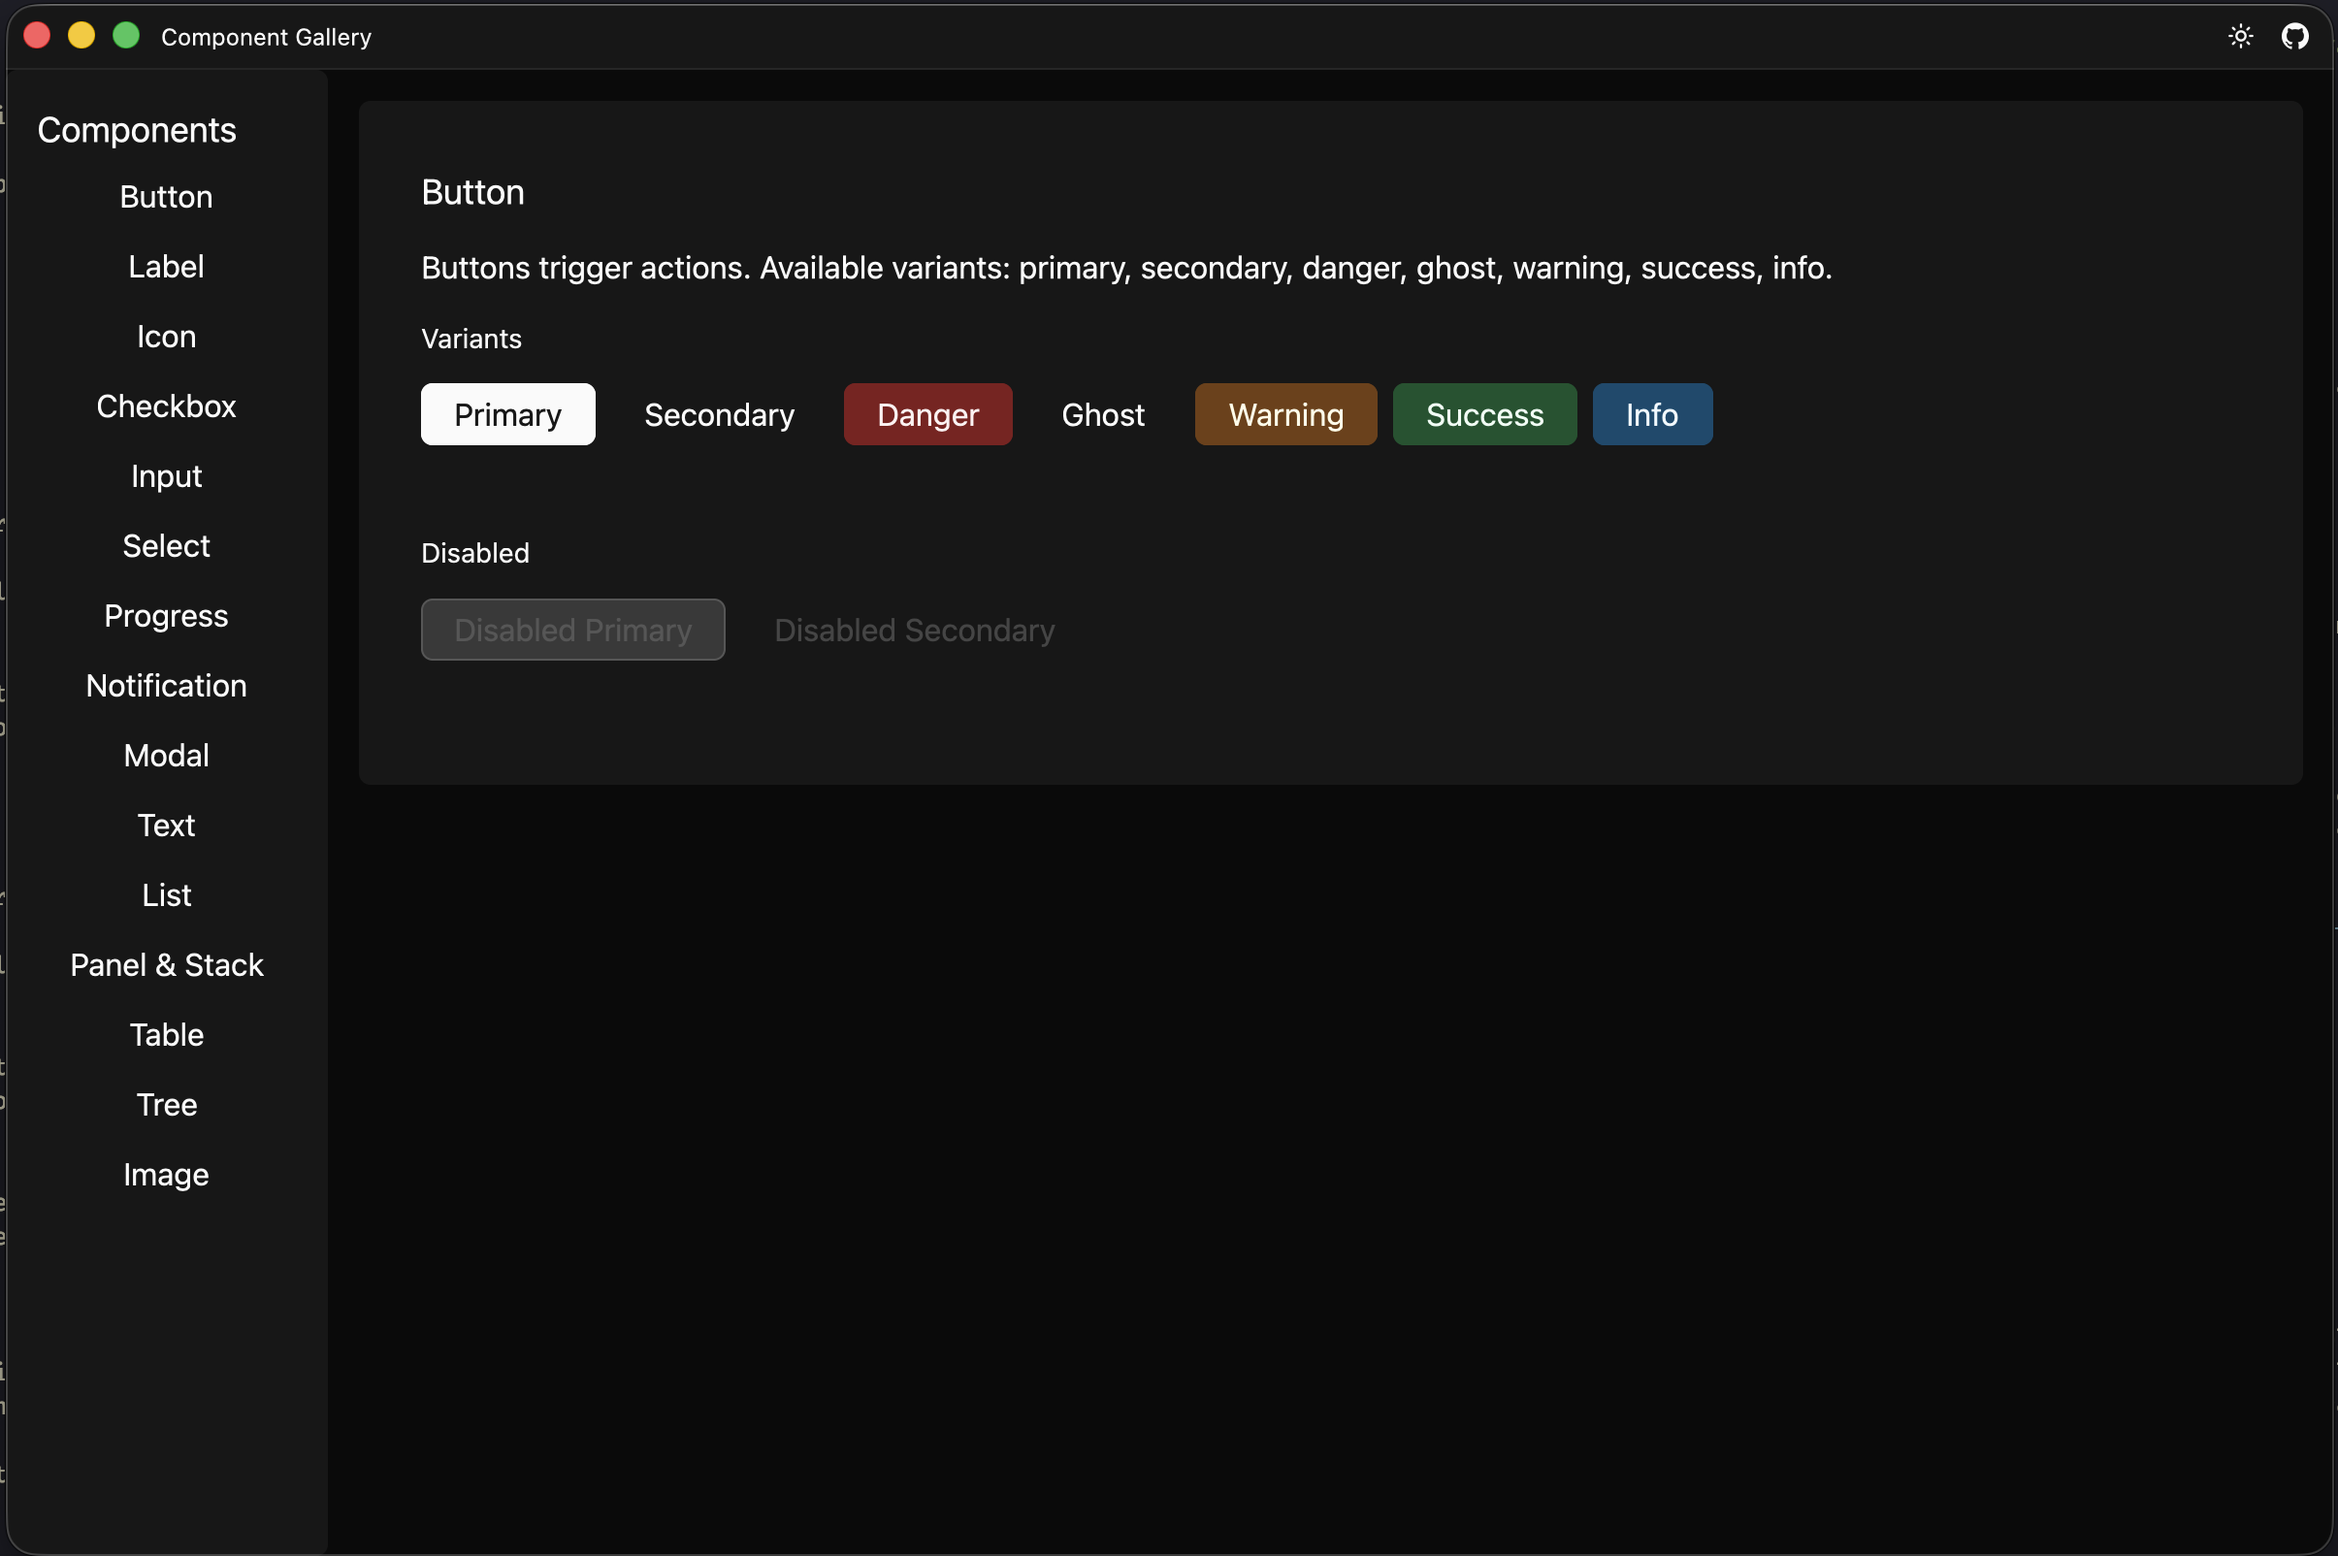
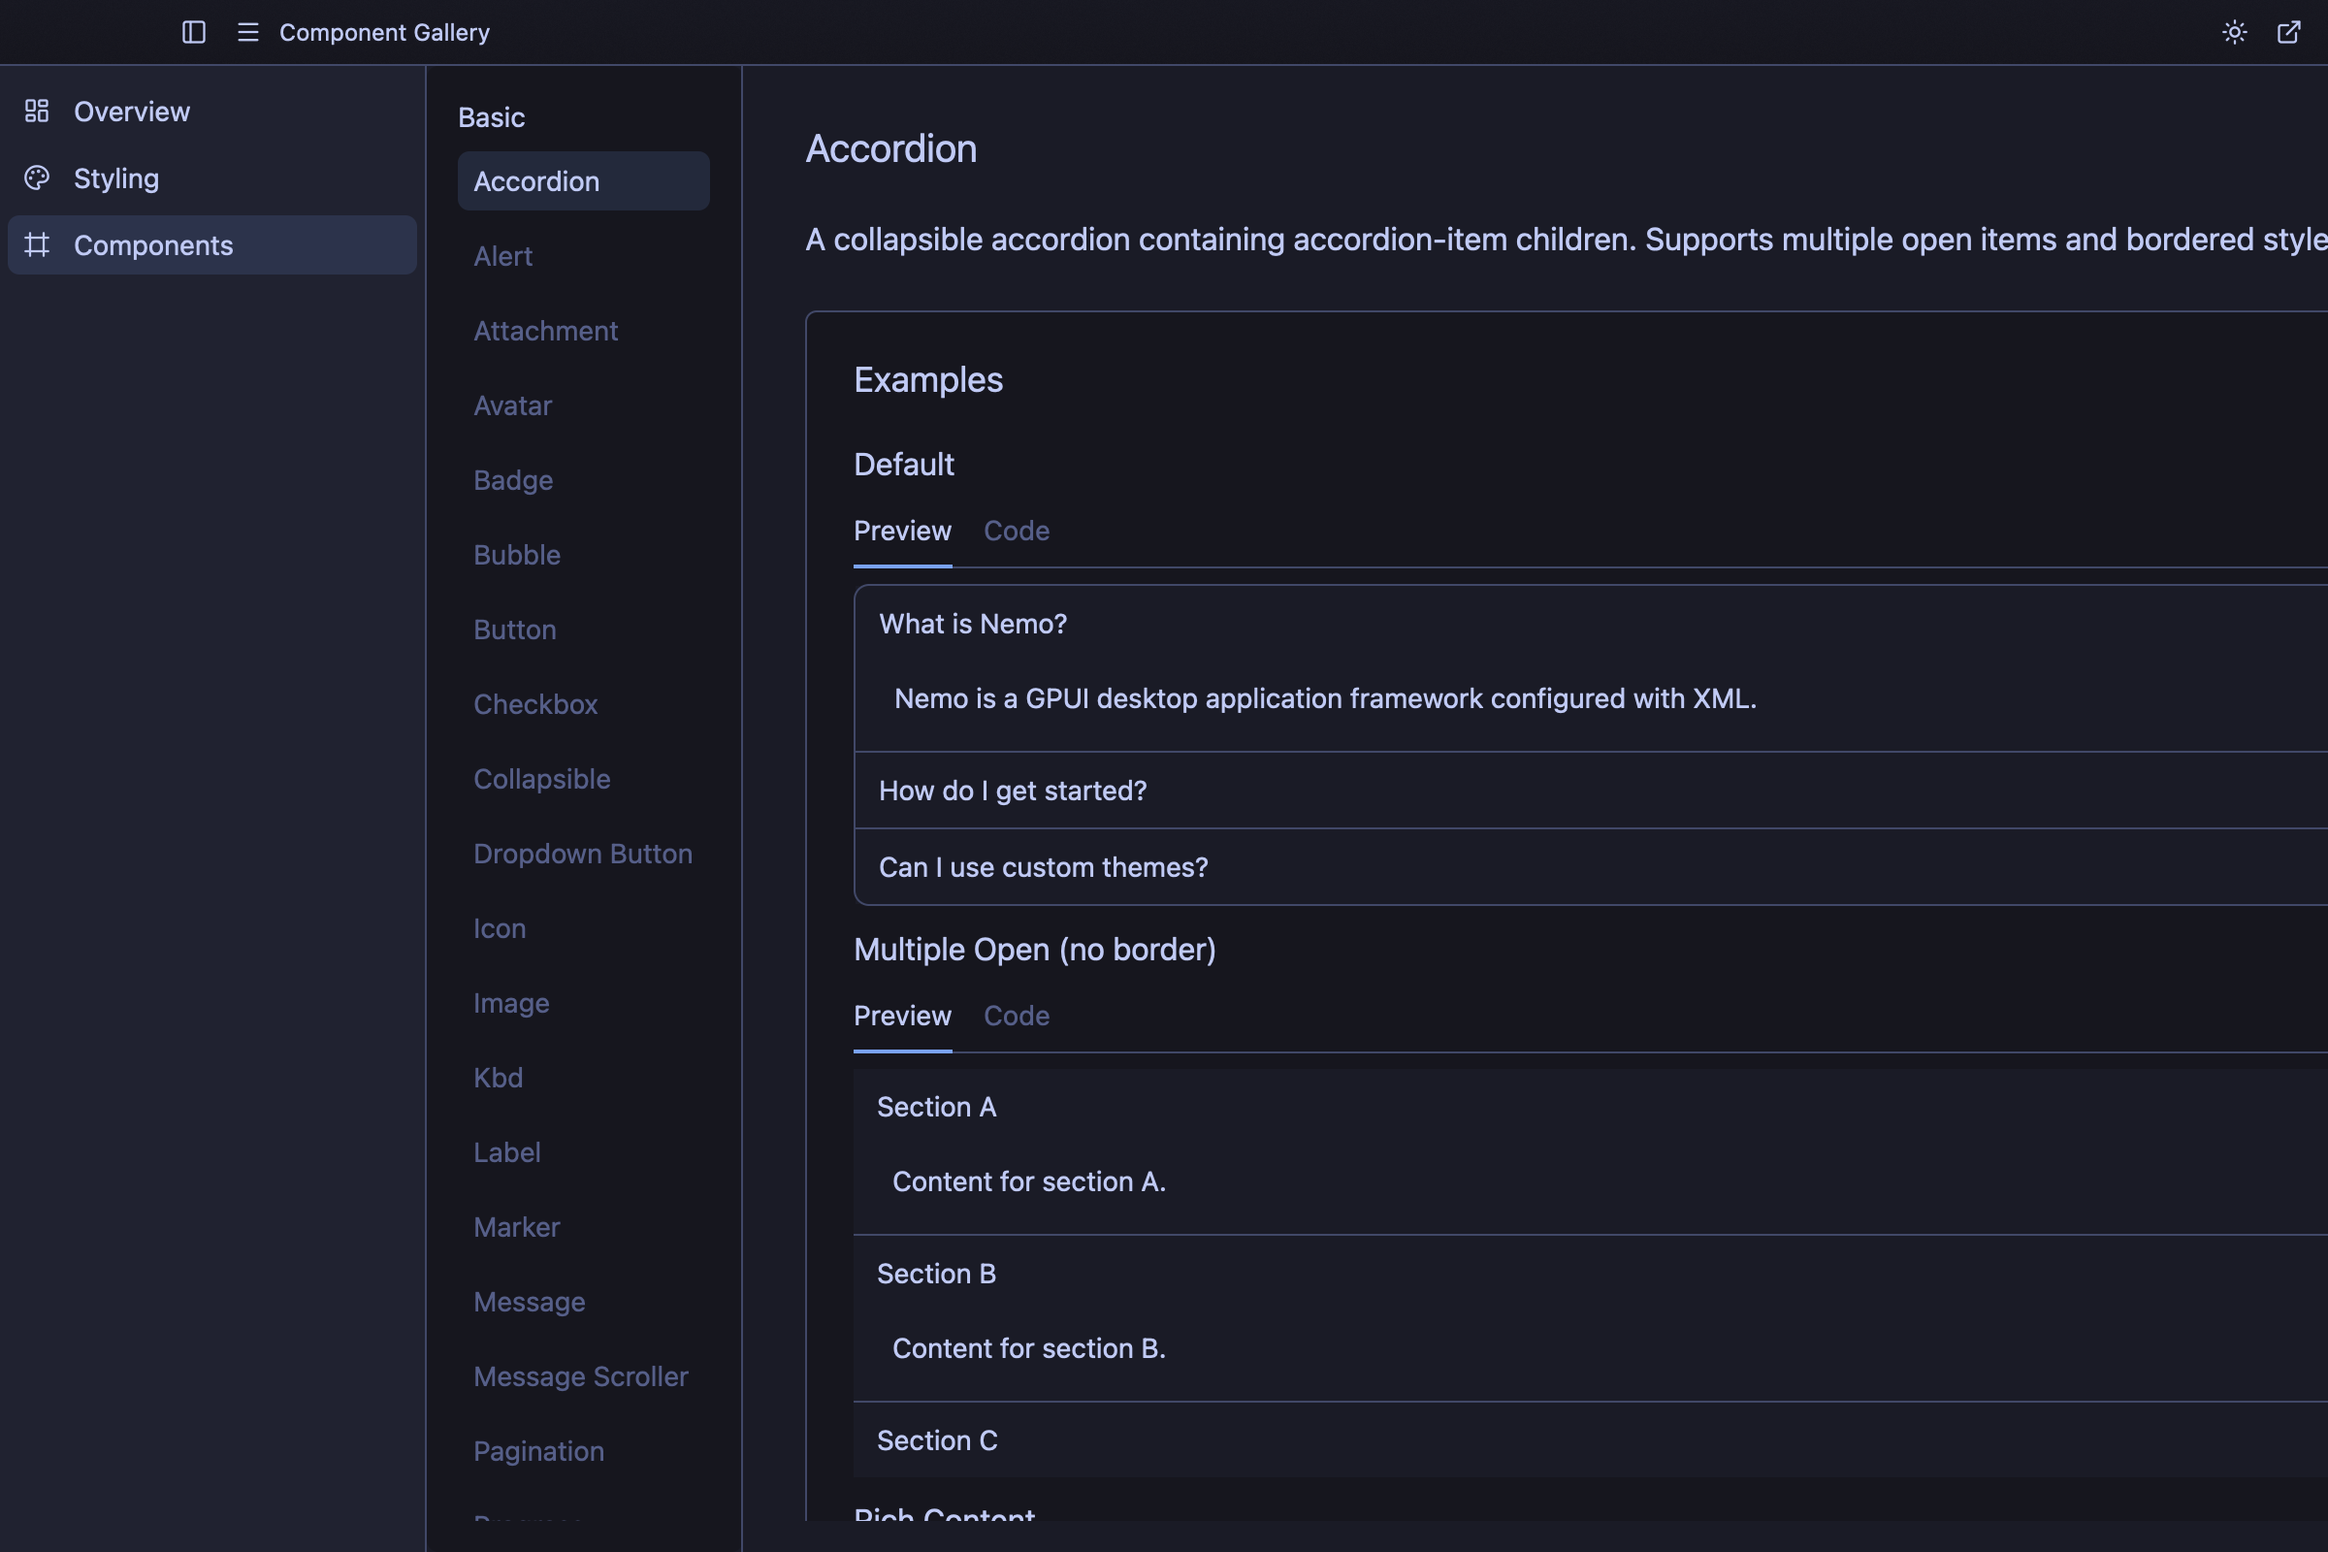
docs: refresh READMEs and gallery screenshot
Root README: list all 14 examples (app-shell, basic, calculator, complete,
components, custom-theme, data-binding, data-streaming, dev-dashboard,
pid-control, router, sfc, svg, task-list) and give the examples block its
own heading; fix Configuations typo.

Components README: replace the stale component list and outdated
placeholder inventory with the current gallery catalogue (Basic/Form/
Layout/Advanced/Navigation) and the 11 remaining gpui-kit placeholders;
describe the app-shell structure the app actually uses.

Regenerate screenshot.png against the current gallery (sidebar + Accordion
page).

diff --git a/examples/components/README.md b/examples/components/README.md
@@ -1,6 +1,8 @@
 # Component Gallery Example
 
-An interactive showcase of every built-in Nemo component, organized with sidebar navigation.
+An interactive showcase of every built-in Nemo component, hosted in an app-shell
+with an Overview / Styling / Components section menu and a sidebar-driven
+component router.
 
 ![Screenshot](./screenshot.png)
 
@@ -12,32 +14,47 @@ cargo run -- --app-config examples/components/app.nemo
 
 ## What It Shows
 
+- App-shell layout: `<app-shell>` with `<sidenav-item>` page switching, a
+  `<header-bar>` with theme toggle, and a component `<page>` containing the
+  gallery router
 - Sidebar navigation via the chrome-free page router: a `<router>` of `<route>`s
   with a `<nav-link>` per component page — no navigation handler required
-- Every built-in component type:
-    - **Button** -- all variants (`primary`, `secondary`, `danger`, `ghost`, `warning`, `success`, `info`) and disabled state
-    - **Label** -- all sizes (`xs`, `sm`, `md`, `lg`, `xl`)
-    - **Icon** -- named icons at different sizes
-    - **Checkbox** -- checked, unchecked, and disabled states
-    - **Input** -- text fields with placeholders and disabled state
-    - **Select** -- dropdown with options
-    - **Progress** -- progress bars at various values
-    - **Notification** -- `info`, `success`, `warning`, `error` kinds
-    - **Modal** -- toggled open/closed via a button handler
-    - **Text** -- block text content
-    - **List** -- vertical item lists
-    - **Panel** -- styled containers with border, shadow, and padding
-    - **Table** -- tabular data display
-    - **Tree** -- hierarchical view
-    - **Image** -- image display with alt text
-- The router mounts only the active route's body — pages are unmounted when not
-  shown, rather than built-and-hidden
-- Jump straight to any page with `--route` (routes mirror the page ids), e.g.
-  `nemo dev --route /table examples/components/app.nemo` or
-  `nemo screenshot --app-config examples/components/app.nemo --route /charts --out charts.png`
-- Modal open/close toggling through `get_component_property` and `set_component_property`
-- Placeholder pages for gpui-kit components that Nemo does not wrap yet
-  (Attachment, Calendar, Carousel, Command, Data Table, Diff, Dock,
-  Message Scroller, Questionnaire, Settings, Virtual List) — each
-  shows a "Not implemented" label and a link to the component's page on
-  [gpui-kit.com](https://gpui-kit.com)
+- The router mounts only the active route's body — pages are unmounted when
+  not shown, rather than built-and-hidden
+- Every component page is a reusable `<component-page-*>` template that pairs
+  live examples with copy-ready markup in Preview/Code tabs
+- Modal open/close toggling through `get_component_property` and
+  `set_component_property`
+
+## Components
+
+Basic: accordion, alert, avatar, badge, bubble, button, collapsible,
+dropdown-button, icon, image, kbd, label, marker, message, pagination, rating,
+skeleton, spinner, stepper, tag, text, tooltip.
+
+Form: checkbox, code-editor, input, radio, select, slider, switch, text-editor,
+textarea, toggle.
+
+Layout: list, modal, notification, panel & stack.
+
+Advanced: charts, menu, svg, table, tree.
+
+Navigation: sidenav-bar.
+
+## Placeholder pages
+
+gpui-kit components that Nemo does not wrap yet show a "Not implemented"
+placeholder with a link to the component's page on
+[gpui-kit.com](https://gpui-kit.com):
+
+- attachment
+- calendar
+- carousel
+- command
+- data-table
+- diff
+- dock
+- message-scroller
+- questionnaire
+- settings
+- virtual-list

diff --git a/README.md b/README.md
@@ -104,21 +104,32 @@ A minimal application (`app.nemo` — a single-file component entry):
 - **Scripted logic** -- Event handlers written in RHAI
 - **Theming** -- Built-in themes (Kanagawa, Catppuccin, Tokyo Night, Gruvbox, Nord) with dark/light modes
 - **Extensible** -- Native plugin support via dynamic libraries
+
+## Examples
+
 ```bash
-nemo --app-config examples/basic/app.nemo
-nemo --app-config examples/calculator/app.nemo
-nemo --app-config examples/sfc/app.nemo
-nemo --app-config examples/data-binding/app.nemo     # multi-file <include> example
-nemo --app-config examples/components/app.nemo
+nemo --app-config examples/basic/app.nemo           # minimal single-file app
+nemo --app-config examples/calculator/app.nemo      # calculator with RHAI handlers
+nemo --app-config examples/sfc/app.nemo            # single-file components
+nemo --app-config examples/components/app.nemo     # full component gallery
 ```
 
-Configuations are available in the [examples](examples) directory:
+Configurations are available in the [examples](examples) directory:
 
+- [app-shell](examples/app-shell): Application shell layout (sidenav + pages + header/footer bars)
 - [basic](examples/basic): A minimal application
 - [calculator](examples/calculator): A calculator application
-- [components](examples/components): A component-based application
-- [data-binding](examples/data-binding): A data-binding application
-- [data-streaming](examples/data-streaming): A data-streaming application
+- [complete](examples/complete): Kitchen-sink example with variables, includes, and routing
+- [components](examples/components): The component gallery — every built-in component with live examples
+- [custom-theme](examples/custom-theme): Defining a custom theme
+- [data-binding](examples/data-binding): Data sources (timer, HTTP, MQTT, WebSocket, Redis, NATS) bound to components
+- [data-streaming](examples/data-streaming): A live streaming dashboard
+- [dev-dashboard](examples/dev-dashboard): The Nemo dev dashboard
+- [pid-control](examples/pid-control): A PID control demo
+- [router](examples/router): Client-side routing between pages
+- [sfc](examples/sfc): Single-file components with child components
+- [svg](examples/svg): SVG rendering
+- [task-list](examples/task-list): A task list application
 
 ## Documentation
 
